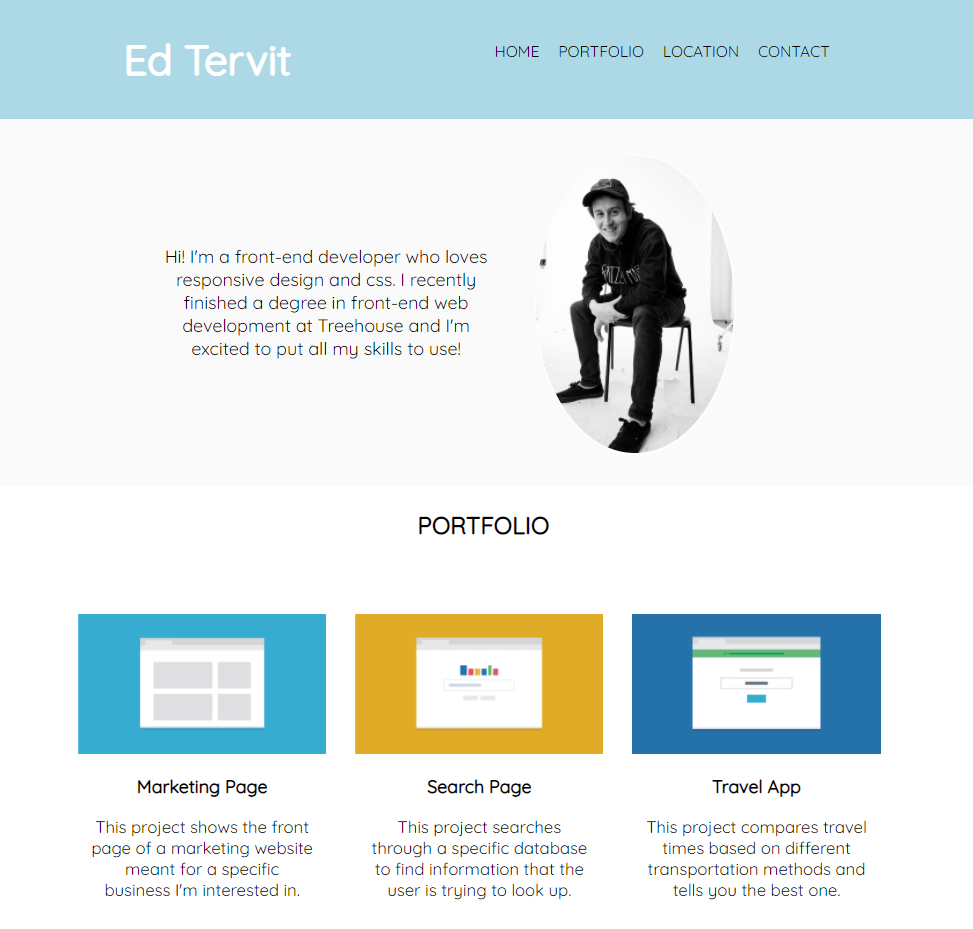
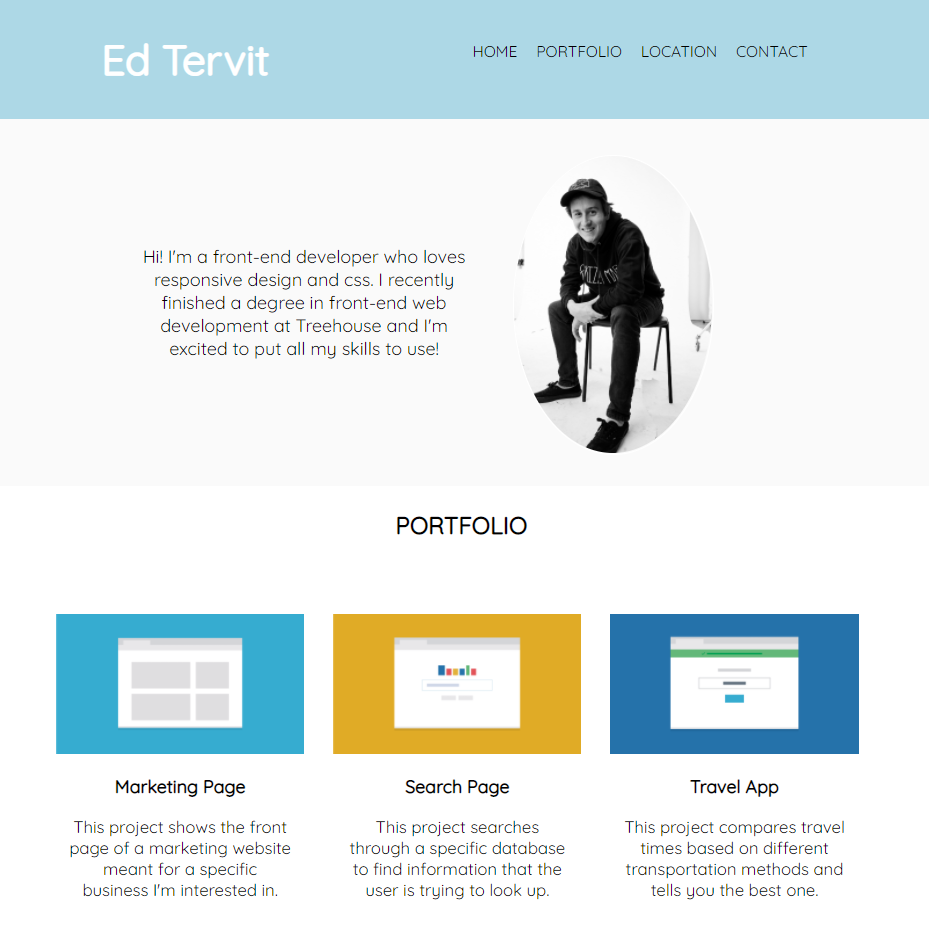
First Draft web ready

diff --git a/style.css b/style.css
@@ -40,7 +40,7 @@ body{
 }
 
 .header_{
-    /* padding: 3em 0; */
+    
     background: #F2994A;  /* fallback for old browsers */
     background: -webkit-linear-gradient(to right, #F2C94C, #F2994A);  /* Chrome 10-25, Safari 5.1-6 */
     background: linear-gradient(to right, #F2C94C, #F2994A); /* W3C, IE 10+/ Edge, Firefox 16+, Chrome 26+, Opera 12+, Safari 7+ */
@@ -98,7 +98,6 @@ nav{
 /* Item Styles */
 
 h1{
-    flex-basis: 100%;
     font-size: 4em;
     text-align: center;
 }
@@ -153,7 +152,6 @@ nav label{
     height: 0px;
     opacity: 0;
     transition: 0.5s;
-    
 }
 
 #open_dropdown:checked ~ .nav-links{
@@ -248,6 +246,7 @@ nav label{
     padding: 1em 1em;
     align-self: center;
     max-width: 900px;
+    
 }
 
 .a_skill{
@@ -261,7 +260,7 @@ nav label{
 }
 
 .skill_h3{
-    padding: 1em 0;
+    padding: 3em 0 1em 0em;
 }
 
 /* Contact me */
@@ -302,4 +301,105 @@ nav label{
 /* Media Queries  */
 
 
+@media (min-width:768px){
 
+    .menutitle{
+        display: none;
+    }
+
+    .header_{
+        display: flex;
+        align-items: center;
+        justify-items: center;
+        padding: 1em 1em;       
+        justify-content: center;
+        align-content: center;
+    }
+
+    .header_nav{
+        
+        align-items: center;
+        width: 100%;
+        justify-content: center;
+        
+    }
+
+
+    .nav-links{
+        width: 100%;
+        height: 100%;
+        max-width: 700px;
+        opacity: 1;
+        transition: 0.5s;
+        flex-direction: row;
+        display: flex;
+        align-items: center;
+    }
+
+    .hello{
+        display: flex;
+        flex-wrap: wrap;
+        flex-direction: row;
+        justify-content: center;
+        align-content: center;
+    }
+
+    .hello_title{
+        align-self: center;
+        padding: 2em;
+    }
+
+    .projects{
+        width: 100%;
+        padding: 2em 5em;
+
+    }
+
+    .a_project{
+        display: flex;
+        flex-direction: column;
+        align-self: center;
+        flex-basis: 50%;
+        height: 100%;
+        justify-content: space-between;
+        
+        flex-wrap: wrap;
+        
+    }
+
+    .a_text_only_project{
+        max-width: 500px;
+    }
+
+    .projects-list{
+        flex-direction: row;
+        flex-wrap: wrap;
+        justify-content: center;
+        justify-self: center;
+        align-content:center ;
+      
+    }
+
+    h3{
+        font-size: 1.3em;
+    }
+
+   
+}
+
+@media (min-width:1080px){
+
+    .nav-item{  
+        font-size: 1em;  
+    }
+
+    h3{
+        font-size: 1.5em;
+    }
+
+    .skills-list{
+        border: dashed 3px white;
+        border-radius: 50px;
+    }
+
+}

diff --git a/index.html b/index.html
@@ -12,7 +12,7 @@
 </head>
 <body>
     
-    <header id="home" class=" header_">
+    <header id="home" class="header_">
         <nav id="header_nav" class="header_nav">
             <h1 class="website-title">Ed Tervit</h1>
             
@@ -50,9 +50,12 @@
     <main class="section">
 
         <section class="hello">
-            <h2>Hello! I'm Ed.</h2>
-            <h3>Web Developer and Programmer</h3>
+            <div class="hello_title">
+                <h2>Hello! I'm Ed.</h2>
+                <h3>Web Developer and Programmer</h3>
+            </div>
             <img class="portrait" src="/images/bw-me.jpg" alt="Portrait of man wearing all black sat on chair in photography studio">
+                
         </section>
         
 
@@ -107,7 +110,7 @@
                     <img class="project_img" src="images/project-3.png" alt="Image preview of project 3"> 
                 </li>
 
-                <li class="a_project">
+                <li class="a_project a_text_only_project">
 
                     <h3>Task Automation with Python</h3>
                     <p class="proj_desc">I have wrote several programs in python that automate daily business tasks saving the business 3+ hours a day of work.</p>
